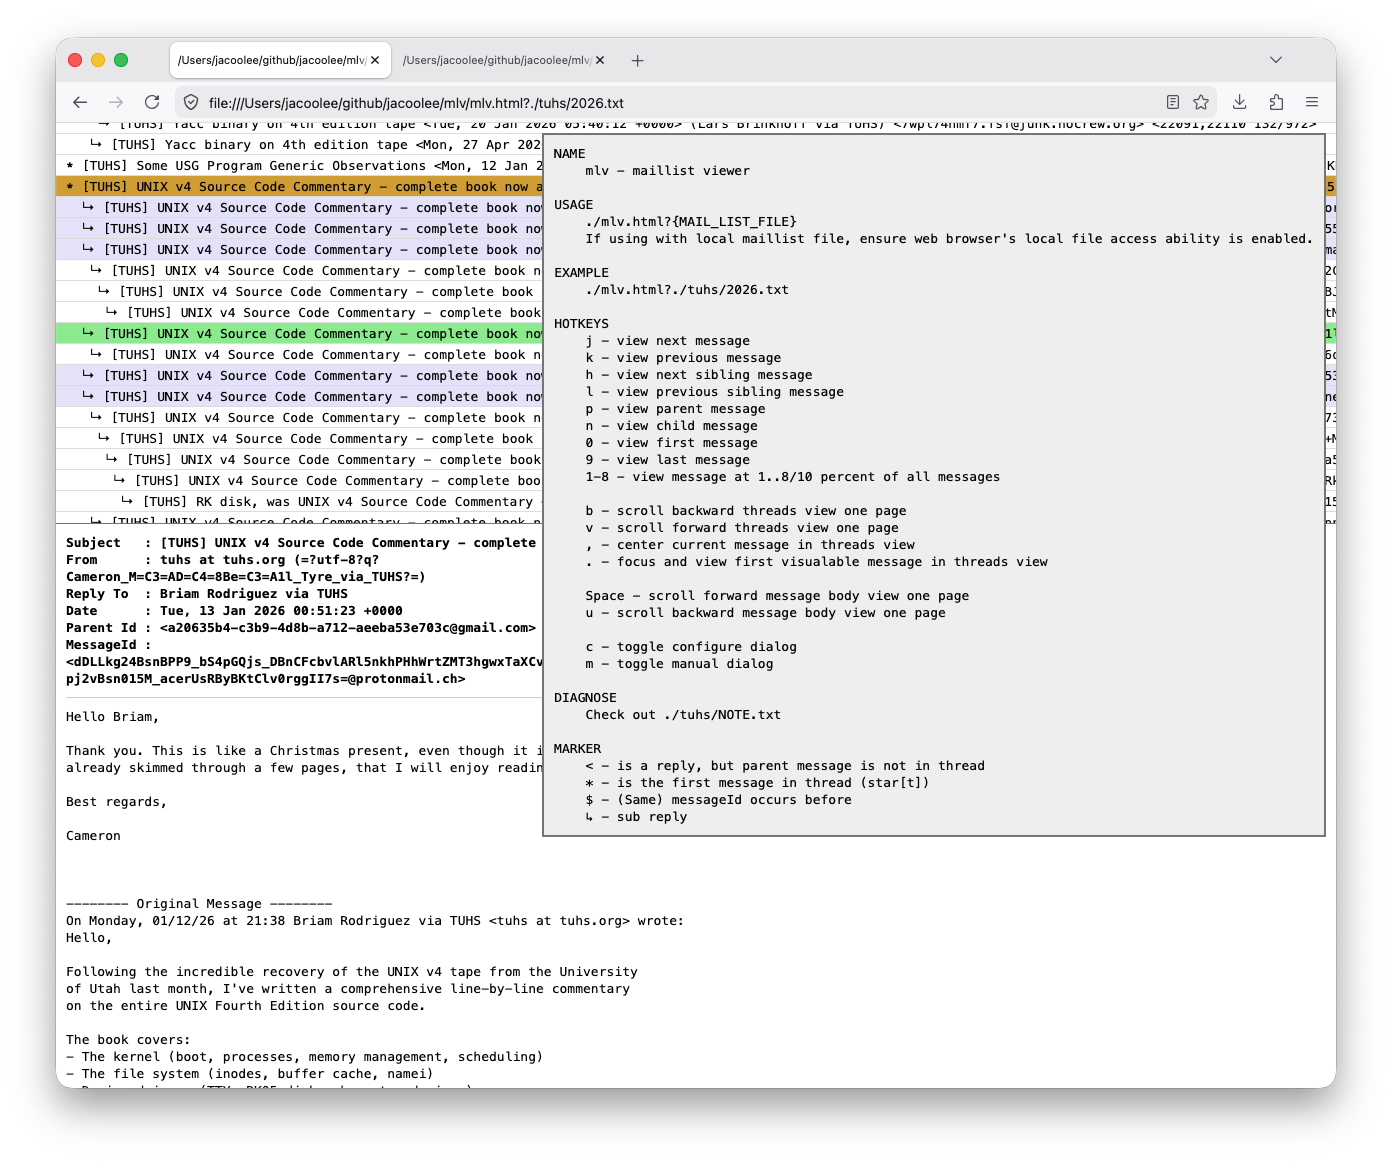
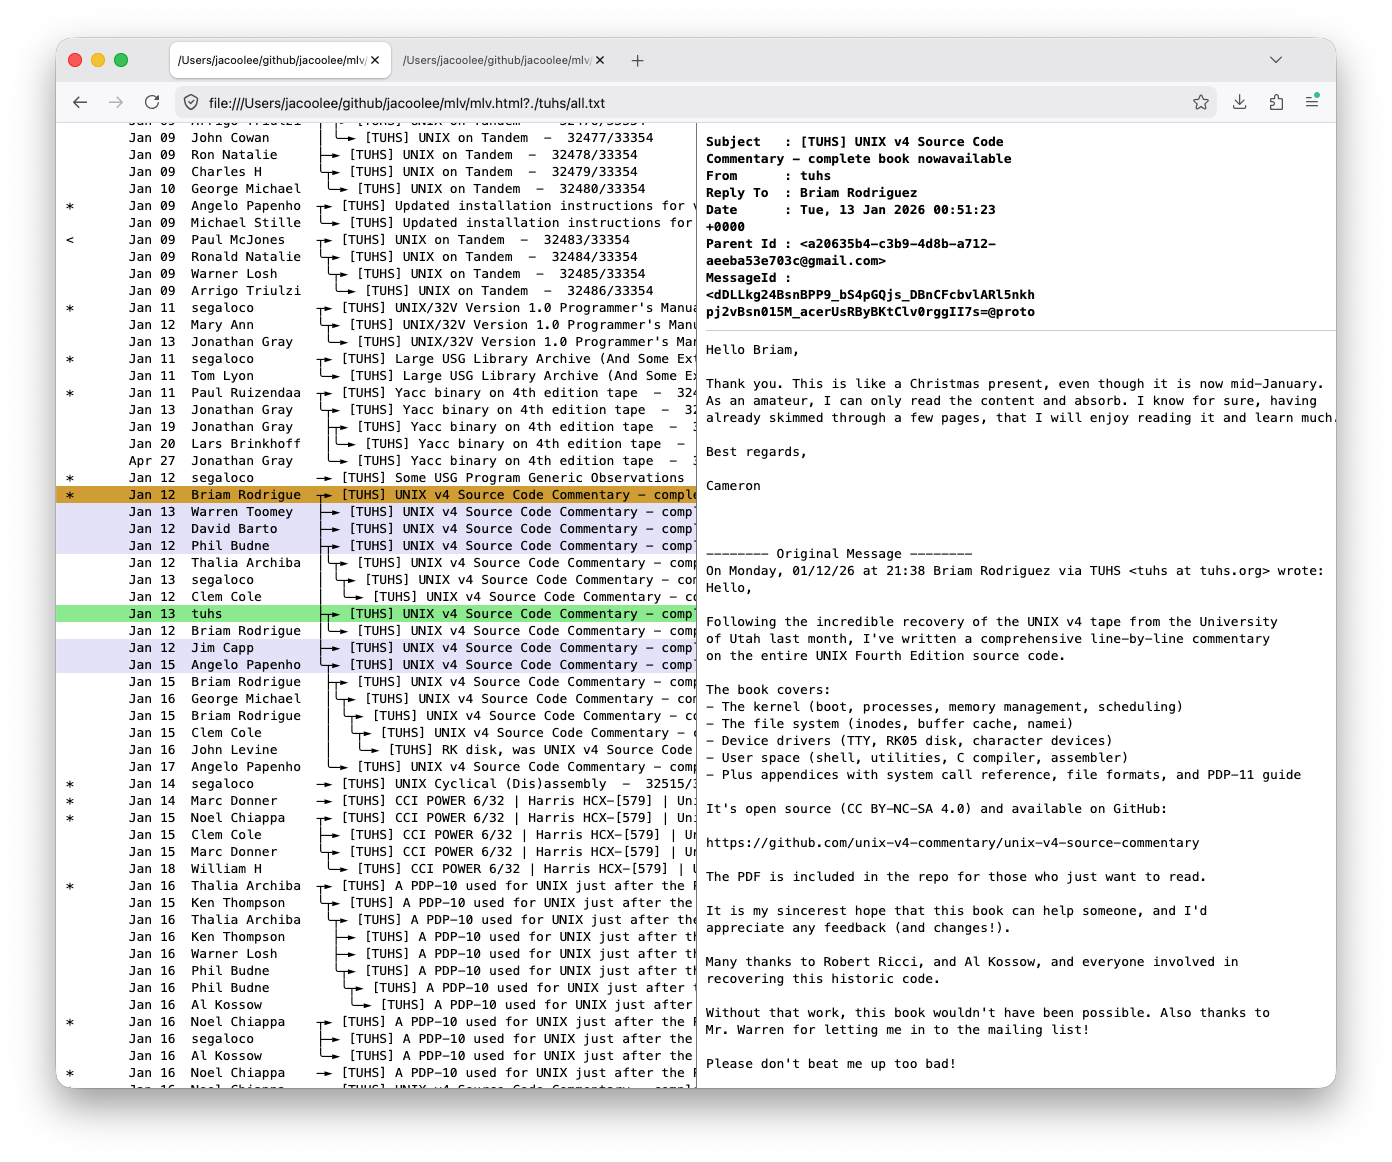
💾 store: #update.

diff --git a/mlv.js b/mlv.js
@@ -1,4 +1,5 @@
 const MSG_SEPARATOR_REGEXP = /^From [^ ]*( at [^ ]*)? *[A-z]{3} [A-z]{3} [ 0-9]{2} [0-9]{2}:[0-9]{2}:[0-9]{2} [0-9]{4}/
+const UNAME_LEN = 14
 
 let gTime = Date.now()
 let gLines = [ /* line, ... */ ]
@@ -54,6 +55,15 @@ function parse(text='') {
             case 'Date': {
                 block['date'] = v
                 let x = v.match(/[0-9]{1,2} [A-z]{3} [0-9]{2,4} *[0-9]{1,2}:[0-9]{1,2}(:[0-9]{1,2})?/)
+                if (x) {
+                    let day = v.match(/[0-9]{1,2}/)[0]
+                    let _x = v.match(/[A-z]{3} [0-9]{2,4}/)[0]
+                    let mon = _x.match(/[A-z]{3}/)[0]
+                    let year = _x.match(/[0-9]{2,4}/)[0]
+                    block['day'] = day? (String(day).length<2 ?'0'+day: day): ''
+                    block['mon'] = mon || ''
+                    block['year'] = year? year<100?'  '+year: (year <1000? ' '+year: year): ''
+                }
                 block['dateShort'] = x? x[0]: v
                 if (!x) {
                     console.debug('mlv: date v:', v)
@@ -231,7 +241,7 @@ function isVisibleInContainer(el, container) {
         && elRect.bottom > containerRect.top + 30
 }
 
-function renderMsgTreeItem(msgId, level=0, marker='') {
+function renderMsgTreeItem(msgId, level=0, isLastSibling=false, siblingBarIdxs=[], marker='') {
     // NOTE: using @msgId in whole process, do not use block.messageId
     if (level === 0) {
         gMsgIdsLevel0.push(msgId)
@@ -247,7 +257,7 @@ function renderMsgTreeItem(msgId, level=0, marker='') {
         return
     }
 
-    const {from, fromShort, subject, date, dateShort, beginLidx, bodyEndLidx} = block
+    const {from, fromShort, subject, date, day, mon, year, dateShort, beginLidx, bodyEndLidx} = block
     block.level = level
     if (level === 0) {
         block.level0Idx = gMsgIdsLevel0.length-1
@@ -259,15 +269,86 @@ function renderMsgTreeItem(msgId, level=0, marker='') {
     div.setAttribute('ridx', currMsgIdxRendered)
 
     let span1 = document.createElement('span')
-    const span1Text = `${marker? marker:''} ${' '.repeat(level)}${level>0?'↳ ':''}`
-    span1.innerText = `${span1Text}`
+    let s = '', sl = []
+
+    const isRoot = level === 0
+    const replies = gReplyMap[msgId]
+    const hasChildren = !!replies
+
+    if (isRoot) {               // tree root/thread head
+        if (hasChildren) {
+            s = '┬'
+        } else {
+            s = '─'
+        }
+    } else {                    // branch/reply
+        if (hasChildren) {
+            if (level === 1) {
+                if (isLastSibling) {
+                    s = '╰┬'
+                } else {
+                    s = '├┬'
+                }
+            } else {
+                if (isLastSibling) {
+                    sl = `${' '.repeat(level-1)}╰┬`.split('')
+                    siblingBarIdxs.forEach((item, idx) => {
+                        sl[item] = idx===siblingBarIdxs.length-1? (item===level-1?'╰':'│'): '│'
+                    })
+                    s = sl.join('')
+                } else {
+                    sl = `${' '.repeat(level-1)}├┬`.split('')
+                    siblingBarIdxs.forEach((item, idx) => {
+                        sl[item] = idx===siblingBarIdxs.length-1? '├': '│'
+                    })
+                    s = sl.join('')
+                }
+            }
+        } else {
+            if (level === 1) {
+                if (isLastSibling) {
+                    s = '╰─'
+                } else {
+                    s = '├─'
+                }
+            } else {
+                if (isLastSibling) {
+                    sl = `${' '.repeat(level-1)}╰─`.split('')
+                    siblingBarIdxs.forEach((item, idx) => {
+                        sl[item] = idx===siblingBarIdxs.length-1? (item===level-1?'╰':'│'): '│'
+                    })
+                    s = sl.join('')
+                } else {
+                    sl = `${' '.repeat(level-1)}├─`.split('')
+                    siblingBarIdxs.forEach((item, idx) => {
+                        sl[item] = idx===siblingBarIdxs.length-1? '├': '│'
+                    })
+                    s = sl.join('')
+                }
+            }
+        }
+    }
+
+    const span1Text = s + '► '
+
+    let poster = (fromShort||from||'').substring(0, UNAME_LEN)
+    if (poster.length < UNAME_LEN) {
+        poster += ' '.repeat(UNAME_LEN-poster.length)
+    }
+    let _year = year? (Number(year) < 2026? year: ''): ''
+    if (_year.length < 4) {
+        _year = ' '.repeat(4-_year.length)
+    }
+    let time = `${_year} ${mon||''} ${day||''}`
+
+    span1.innerText = `${marker||' '}  ${time}  ${poster}  ${span1Text}`
     span1.setAttribute('class', 'msgtree-item--left')
     div.appendChild(span1)
 
     let span2 = document.createElement('span')
     // const span2Text = `${fromShort||from}: ${subject} <${date}> ${msgId} <${beginLidx+1},${bodyEndLidx+1} ${currMsgIdxRendered+1}/${gMsgIds.length}>`
 
-    const span2Text = `${fromShort||from}: ${subject}  -  ${dateShort}  -  ${currMsgIdxRendered+1}/${gMsgIds.length}`
+    const span2Text = `${subject}  -  ${currMsgIdxRendered+1}/${gMsgIds.length}`
 
     span2.innerText = span2Text
     span2.setAttribute('class', 'msgtree-item--right')
@@ -313,28 +394,36 @@ MessageId : ${messageIdModified||messageId}`
     e.innerText = t
 }
 
-function _renderReplyRecursively(msgId, level=1) {
-    (gReplyMap[msgId] || []).forEach((i,idx) => {
-        if (!gRenderedMap[i]) {
-            renderMsgTreeItem(i, level)
+function _renderReplyRecursively(msgId, level=1, siblingBarIdxs=[]) {
+    const replies = (gReplyMap[msgId] || [])
+    const hasMultipleChildren = replies.length > 1
+    replies.forEach((i,idx) => {
+        let ss = [...siblingBarIdxs].concat([level])
+        let isLastSibling = idx === replies.length-1
+        if (isLastSibling) {
+            ss.pop()
         }
-        _renderReplyRecursively(i, level+1)
+        if (!gRenderedMap[i]) {
+            renderMsgTreeItem(i, level+1, idx===replies.length-1, ss, '')
+        }
+        _renderReplyRecursively(i, level+1, ss)
     })
 }
 
 function render() {
     for(var i of gMsgIds) {
+        let siblingBarIdxs = []
         if (!gRenderedMap[i]) {
-            renderMsgTreeItem(i, 0, gIsReplyMap[i]? '<': '*')
+            renderMsgTreeItem(i, 0, false, siblingBarIdxs, gIsReplyMap[i]? '<': '*')
         }
-        _renderReplyRecursively(i)
+        _renderReplyRecursively(i, 0, siblingBarIdxs)
 
         // render messages with same message-id
         if (i in gMsgSameMap) {
             for (var j=1; j<gMsgSameMap[i].length; j++) {
                 const mmid = i + '$' + String(gMsgSameMap[i][j]+1)
                 if (!gRenderedMap[mmid]) {
-                    renderMsgTreeItem(mmid, 0, '$')
+                    renderMsgTreeItem(mmid, 0, false, siblingBarIdxs, '$')
                 }
             }
         }

diff --git a/mlv.css b/mlv.css
@@ -107,20 +107,16 @@ body {
 .msgtree-item {
     cursor: default;
 
-    padding: 1px 10px;
+    padding: 0px 10px;
 
     width: 100%;
-    height: 18px;               /*total height: 18 + 2*1 + 1 = 21*/
-    line-height: 18px;
+    /* height: 18px;               /\*total height: 18 + 2*1 + 1 = 21*\/ */
+    /* line-height: 18px; */
 
     word-break: break-all;
     white-space: pre;
 
-    border-bottom: solid 1px #e0e0e0;
-}
-
-.dark .msgtree-item {
-    border-bottom: solid 1px #333;
+    /* border-bottom: solid 1px #e0e0e0; */
 }
 
 .msgtree-item:hover {
@@ -133,7 +129,7 @@ body {
 
 .msgtree-item--left {
     white-space: pre;
-    font-family: "courier";
+    // font-family: "courier";
 }
 
 #mailbody-header-container {
